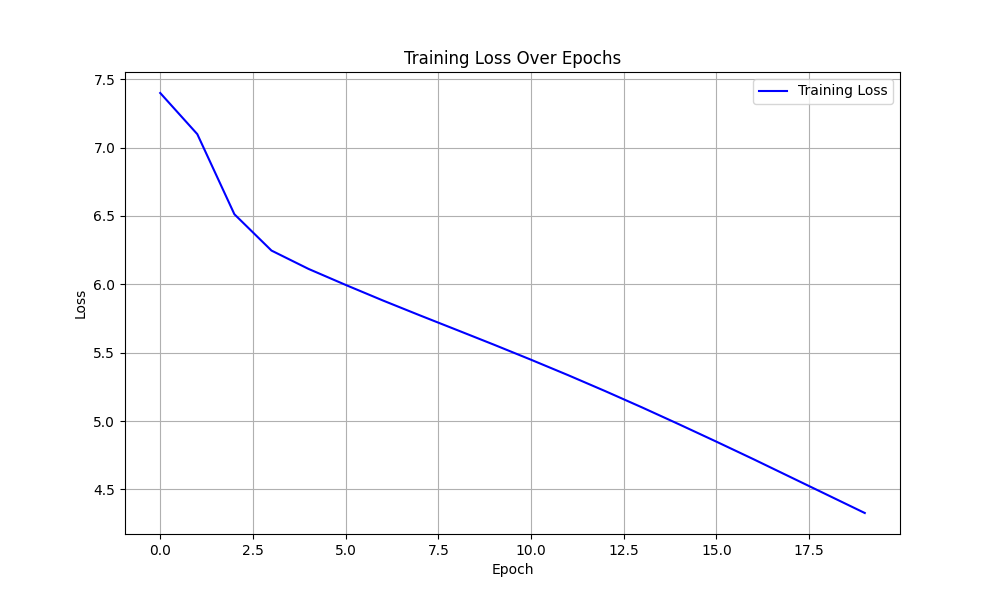
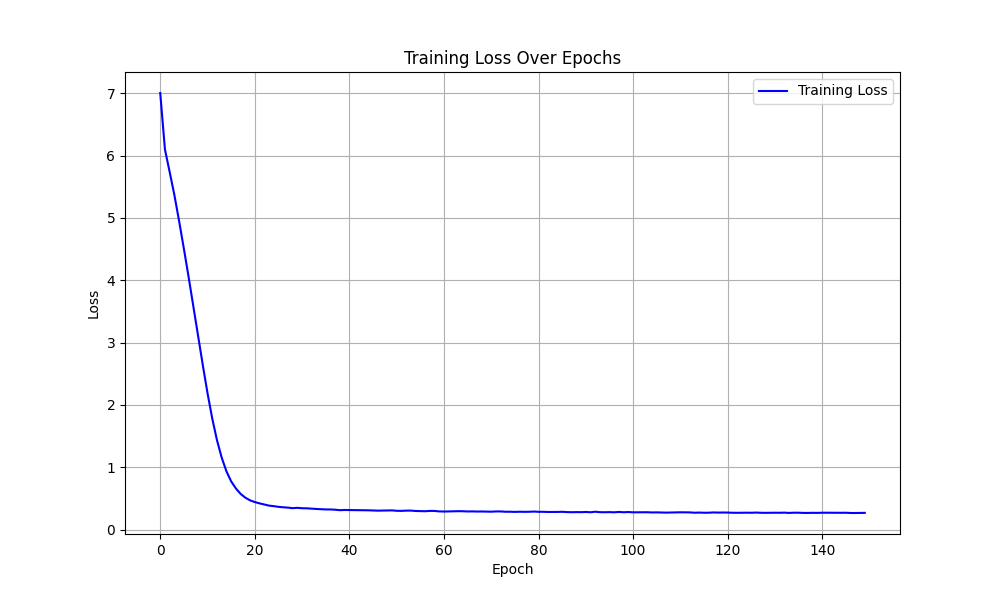
test both models , seems equal

diff --git a/src/IntroToIR.py b/src/IntroToIR.py
@@ -5,8 +5,9 @@ import pandas as pd
 import numpy as np
 from pandas.io.formats.format import math
 from tensorflow.keras.utils import to_categorical
-from embeding_model import CBOW, SkipGram
+from embeding_model import CBOW, CBOW2, SkipGram
 import matplotlib.pyplot as plt
+from sklearn.model_selection import train_test_split
 
 # ------------- global variables  -------------
 #
@@ -115,6 +116,7 @@ def generate_cbow_skipgram_data(
     half_window = (window_size - 1) / 2
     half_window = int(half_window)
     cbow_inputs, cbow_targets = [], []
+    cbow_inputs2, cbow_targets2 = [], []
     skipgram_inputs, skipgram_targets = [], []
 
     for sentence in sentences:
@@ -142,13 +144,15 @@ def generate_cbow_skipgram_data(
             if model_type == "cbow":
                 cbow_inputs.append(binary_vector_input)
                 cbow_targets.append(binary_vector_target)
+                cbow_inputs2.append(context)
+                cbow_targets2.append(target)
             elif model_type == "skipgram":
                 for context_word in context:
                     skipgram_inputs.append(binary_vector_target)
                     skipgram_targets.append(binary_vector_input)
 
     if model_type == "cbow":
-        return cbow_inputs, cbow_targets
+        return cbow_inputs, cbow_targets, cbow_inputs2, cbow_targets2
     else:
         return skipgram_inputs, skipgram_targets
 
@@ -183,10 +187,10 @@ class Token:
 
     def binary_vector(self, token_list: list[int]):
         result_list = np.zeros(len(self.token_map), dtype=int)
-
         for token in token_list:
             if 0 <= token < len(self.token_map):
                 result_list[token] = 1
+
         return result_list
 
     @staticmethod
@@ -359,24 +363,21 @@ None
 #
 
 sentences = combind_title_desc.tolist()
-cbow_inputs, cbow_targets = generate_cbow_skipgram_data(
+cbow_inputs, cbow_targets, cbow_inputs2, cbow_targets2 = generate_cbow_skipgram_data(
     tokenhelper,
     sentences,
     window_size=3,
     vocab_size=len(tokenhelper.token_map),
     model_type="cbow",
 )
+"""
 skipgram_inputs, skipgram_targets = generate_cbow_skipgram_data(
     tokenhelper,
     sentences,
     window_size=3,
     vocab_size=len(tokenhelper.token_map),
     model_type="skipgram",
-)
-
-print(
-    f"info -> total len is : {len(cbow_inputs)} \n while each input size is {len(cbow_inputs[0])}"
-)
+)"""
 
 
 def plot_loss(loss_values, filename="loss_curve.png"):
@@ -391,13 +392,40 @@ def plot_loss(loss_values, filename="loss_curve.png"):
     plt.close()
 
 
-cbow_model = CBOW(
-    vocab_size=len(tokenhelper.token_map), window_size=3, embedding_size=100, epoch=150
+X_train1, X_val1, y_train1, y_val1 = train_test_split(
+    cbow_inputs2,
+    cbow_targets2,
+    test_size=0.1,
+    random_state=42,
+    shuffle=True,
 )
-loss = cbow_model.fit(cbow_inputs, cbow_targets)
-plot_loss(loss)
+cbow_model2 = CBOW2(
+    vocab_size=len(tokenhelper.token_map), window_size=3, embedding_size=50, epoch=80
+)
+loss = cbow_model2.fit(X_train1, y_train1)
+plot_loss(loss, "cbow2_loss.png")
+y_pred1 = cbow_model2.predict(X_val1)
+y_pred_indices1 = np.argmax(y_pred1, axis=1)
+accuracy = np.mean(y_pred_indices1 == y_val1)
+print(f"Validation accuracy CBOW2 (indices): {accuracy:.4f}")
 
-skipgram_model = SkipGram(
-    vocab_size=len(tokenhelper.token_map), embedding_size=50, epoch=10
+X_train, X_val, y_train, y_val = train_test_split(
+    cbow_inputs,
+    cbow_targets,
+    test_size=0.1,
+    random_state=42,
+    shuffle=True,
 )
+cbow_model = CBOW(
+    vocab_size=len(tokenhelper.token_map), window_size=3, embedding_size=100, epoch=80
+)
+loss = cbow_model.fit(X_train, y_train)
+plot_loss(loss, "cbow_loss.png")
+y_pred = cbow_model.predict(X_val)
+y_pred_indices = np.argmax(y_pred, axis=1)
+y_true_indices = np.argmax(y_val, axis=1)
+accuracy = np.mean(y_pred_indices == y_true_indices)
+print(f"Validation accuracy CBOW (multi-hot): {accuracy:.4f}")
+
+# Train and evaluate CBOW2 (index inputs)
 # skipgram_mode.fit(skipgram_inputs, skipgram_targets)

diff --git a/src/embeding_model.py b/src/embeding_model.py
@@ -43,8 +43,54 @@ class CBOW(AbstractMethod):
         input = np.array(input)  # shape: (3955, vocab_size)
         target = np.array(target)  # shape: (3955, vocab_size)
         print(input.shape, target.shape)
+        print(
+            f"token_list size {len(input)}  input shape {input.shape} input shape {input[0].shape}sum {np.sum(input[0])}"
+        )
         history = self._model.fit(input, target, verbose=1, epochs=self.epoch)
         return history.history["loss"]
+
+    def predict(self, input):
+        input = np.array(input)
+        return self._model.predict(input)
+
+    def get_weights(self):
+        return self._model.get_weights()
+
+    def set_weights(self, weights):
+        self._model.set_weights(weights)
+
+
+class CBOW2(AbstractMethod):
+    def __init__(self, vocab_size, window_size=3, embedding_size=10, epoch=100) -> None:
+        self._model = self._build_model(vocab_size, embedding_size, window_size)
+        self.epoch = epoch
+
+    def _build_model(self, vocab_size: int, embedding_size: int, window_size: int):
+        context_size = window_size - 1
+        inputs = keras.Input(shape=(context_size,))
+        x = keras.layers.Embedding(input_dim=vocab_size, output_dim=embedding_size)(
+            inputs
+        )
+        x = keras.layers.Lambda(lambda x: tf.reduce_mean(x, axis=1))(x)
+        outputs = keras.layers.Dense(vocab_size, activation="softmax")(x)
+        model = keras.Model(inputs=inputs, outputs=outputs)
+        model.compile(
+            optimizer=keras.optimizers.Adam(learning_rate=0.001),
+            loss="sparse_categorical_crossentropy",
+            metrics=["accuracy"],
+        )
+        return model
+
+    def fit(self, input, target):
+        input = np.array(input)
+        target = np.array(target)
+        print(input.shape, target.shape)
+        history = self._model.fit(input, target, verbose=1, epochs=self.epoch)
+        return history.history["loss"]
+
+    def predict(self, input):
+        input = np.array(input)
+        return self._model.predict(input)
 
     def get_weights(self):
         return self._model.get_weights()
@@ -59,15 +105,9 @@ class SkipGram(AbstractMethod):
         self.epoch = epoch
 
     def _build_model(self, vocab_size: int, embedding_size: int):
-        inputs = keras.Input(shape=(1,))
-        x = keras.layers.Embedding(
-            input_dim=vocab_size,
-            output_dim=embedding_size,
-            input_length=1,
-        )(inputs)
-        x = keras.layers.Reshape((embedding_size,))(x)
-        outputs = keras.layers.Dense(units=vocab_size, activation="softmax")(x)
-
+        inputs = keras.Input(shape=(vocab_size,))
+        x = keras.layers.Dense(embedding_size, activation="linear")(inputs)
+        outputs = keras.layers.Dense(vocab_size, activation="softmax")(x)
         model = keras.Model(inputs=inputs, outputs=outputs)
         model.compile(
             optimizer=keras.optimizers.Adam(),
@@ -77,10 +117,15 @@ class SkipGram(AbstractMethod):
         return model
 
     def fit(self, input, target):
-        input = np.array(input)
-        target = np.array(target)
-        history = self._model.fit(input, target, epochs=self.epoch, verbose=0)
+        input = np.array(input)  # shape: (3955, vocab_size)
+        target = np.array(target)  # shape: (3955, vocab_size)
+        print(input.shape, target.shape)
+        history = self._model.fit(input, target, verbose=1, epochs=self.epoch)
         return history.history["loss"]
+
+    def predict(self, input):
+        input = np.array(input)
+        return self._model.predict(input)
 
     def get_weights(self):
         return self._model.get_weights()
